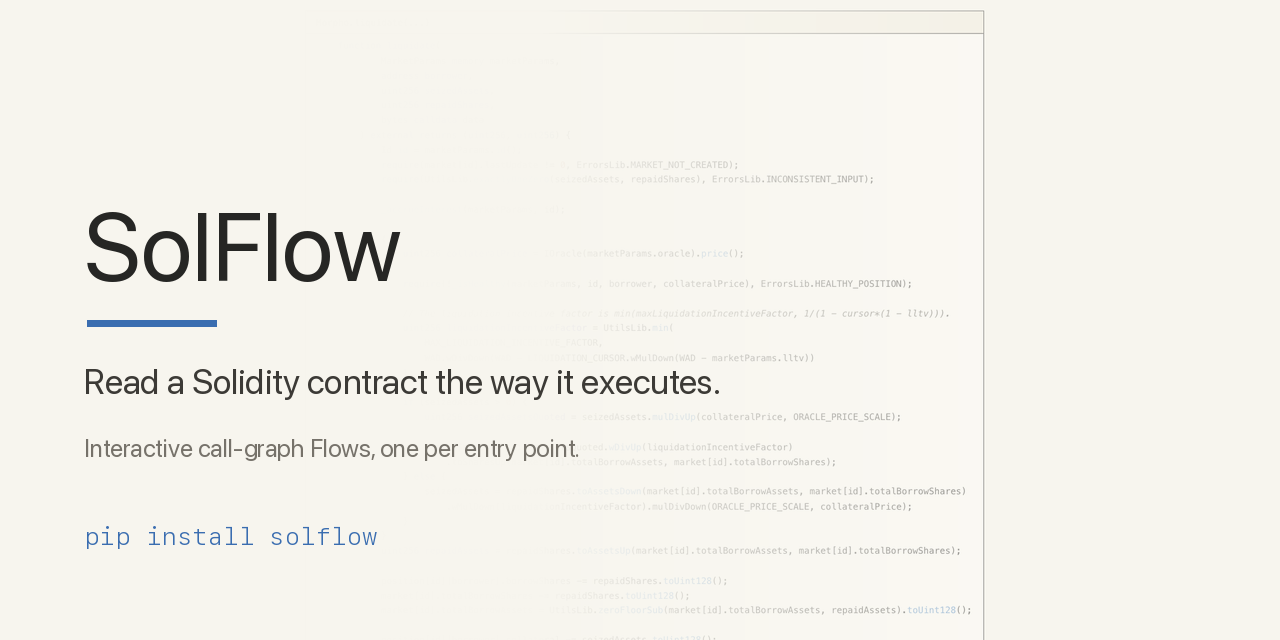
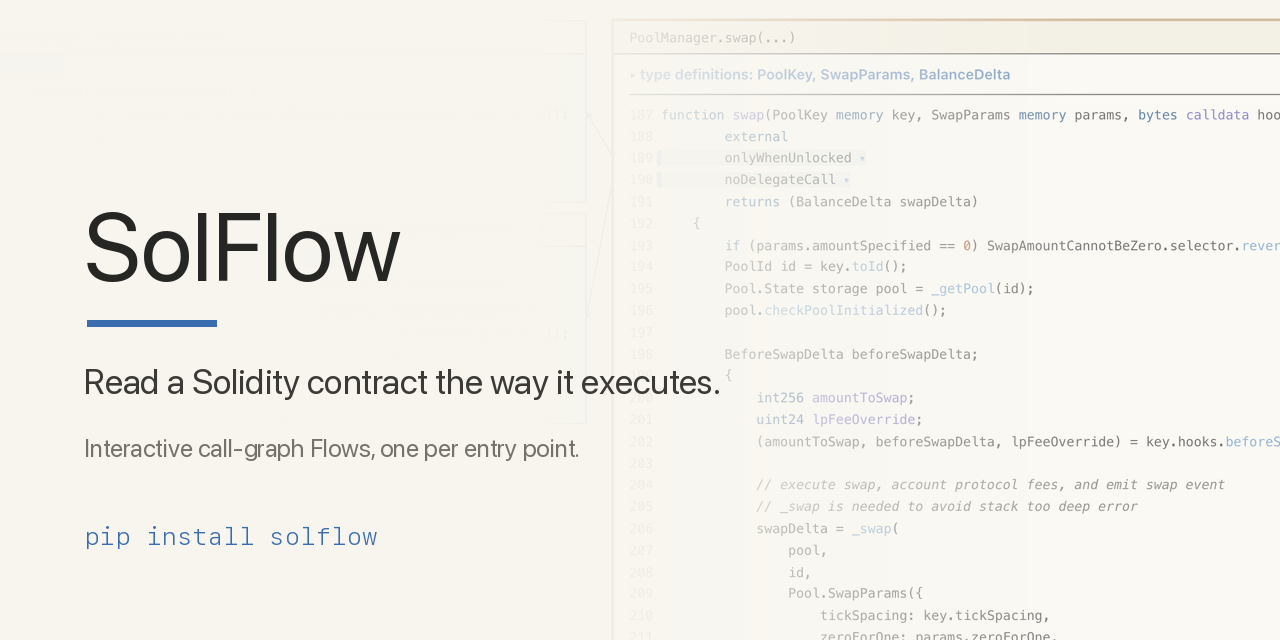
docs: refresh README demo on Uniswap V4 (PoolManager.swap)
Regenerate the README hero GIF, stills, and social card against
v4-core's PoolManager.swap at the v0.24 UI, replacing the stale
v0.11-era Morpho Blue (liquidate) imagery.

- demo.gif: light terminal -> entry-point index -> swap root ->
  expanded (beforeSwap hook + _swap -> Pool.swap) -> bird's-eye
  overview -> flip to dark mode. Same 14-beat structure and timing.
- stills renamed to match the subject: index-uniswap-v4.png,
  flow-swap-overview.png, flow-swap-detail.png (old Morpho/liquidate
  PNGs removed).
- social-preview.png regenerated over the swap source.
- docs/probes capture/stitch/terminal/social_preview updated for the
  new subject and a light terminal intro. The "overview" beat is a
  bounded ~32-node expansion: swap's full --expand-all tree is
  ~9645x133771 px and fits only as an unreadable sliver, so capture
  now needs just one server (8137).

Closes the long-standing stale-screenshots debt.

diff --git a/docs/probes/demo_gif_capture.py b/docs/probes/demo_gif_capture.py
@@ -4,9 +4,13 @@ Run with the ARCHIVE venv python (has Playwright + Chromium); writes PNGs to
 /tmp/solflow_gif/frames/ (scratch):
   .../solidity-flow-navigator-private-archive/.venv/bin/python docs/probes/demo_gif_capture.py
 
-Servers expected up beforehand (project venv):
+One server expected up beforehand (project venv):
   S1 = http://127.0.0.1:8137  (normal progressive)
-  S2 = http://127.0.0.1:8138  (--expand-all)
+
+The demo subject is Uniswap V4's PoolManager.swap. Its --expand-all tree is
+~9645x133771 px (see flow-progressive.js fit notes), which fits only as an
+unreadable sliver, so the "overview" beat shows a deep but bounded expansion
+(expand_swap_overview) instead of the whole tree.
 """
 
 from __future__ import annotations
@@ -19,54 +23,55 @@ OUT = pathlib.Path("/tmp/solflow_gif/frames")
 OUT.mkdir(parents=True, exist_ok=True)
 
 S1 = "http://127.0.0.1:8137"
-S2 = "http://127.0.0.1:8138"
-LIQ = "/flow/Morpho.liquidate(MarketParams,address,uint256,uint256,bytes)"
+SWAP = "/flow/PoolManager.swap(PoolKey,SwapParams,bytes)"
 
 VIEW = {"width": 1748, "height": 1116}
 DSF = 2
 
 
+PROMPT = (
+    '<span class="prompt">norah@mac</span> '
+    '<span class="path">~/work</span> <span class="sig">%</span>'
+)
+
+
 def terminal_html(command: str, *, cursor: bool, banner: bool) -> str:
-    """A polished macOS-style terminal window rendered for screenshotting."""
+    """A clean macOS-style terminal in the tool's LIGHT palette (cream surface,
+    dark ink, blue/green accents), so the intro flows seamlessly into the light
+    index and the loop-back from the dark finale reads as a clear restart.
+    Single source line + white-space:pre keeps the prompt on one line."""
     cur = '<span class="cur">&#9611;</span>' if cursor else ""
+    cmd_line = (
+        f'<div class="line">{PROMPT}<span class="cmd"> {command}</span>{cur}</div>'
+    )
     banner_html = ""
     if banner:
         banner_html = (
             '<div class="line out">Solidity Flow Navigator running at '
             '<span class="link">http://127.0.0.1:8137</span></div>'
-            '<div class="line"><span class="prompt">norah@mac</span>'
-            '<span class="path">~/work</span><span class="sig">%</span> '
-            '<span class="cur">&#9611;</span></div>'
+            f'<div class="line">{PROMPT} <span class="cur">&#9611;</span></div>'
         )
     return f"""<!doctype html><html><head><meta charset="utf-8"><style>
   html,body{{margin:0;height:100%;}}
-  body{{background:#14161b;display:flex;align-items:center;justify-content:center;
+  body{{background:#efeae0;display:flex;align-items:center;justify-content:center;
         font-family:ui-monospace,"SF Mono",Menlo,Consolas,monospace;}}
-  .win{{width:1180px;background:#1b1d23;border-radius:12px;overflow:hidden;
-        box-shadow:0 24px 80px rgba(0,0,0,.55);border:1px solid #2a2d36;}}
-  .bar{{height:44px;background:#23262e;display:flex;align-items:center;gap:9px;
-        padding:0 18px;}}
+  .win{{width:1180px;background:#fbfaf6;border-radius:12px;overflow:hidden;
+        box-shadow:0 18px 60px rgba(60,52,40,.18);border:1px solid #d8d4c8;}}
+  .bar{{height:44px;background:#efeadf;display:flex;align-items:center;gap:9px;
+        padding:0 18px;border-bottom:1px solid #e3ddcf;}}
   .dot{{width:13px;height:13px;border-radius:50%;}}
   .r{{background:#ff5f57;}} .y{{background:#febc2e;}} .g{{background:#28c840;}}
-  .title{{color:#8b8f9a;font-size:13px;margin-left:14px;}}
-  .body{{padding:26px 30px 34px;font-size:25px;line-height:1.7;color:#e6e8ee;}}
-  .line{{white-space:pre-wrap;word-break:break-all;}}
-  .prompt{{color:#7fd1b9;}} .path{{color:#7fb3eb;margin:0 .5ch;}}
-  .sig{{color:#8b8f9a;}}
-  .cmd{{color:#f2f4f8;}}
-  .out{{color:#9aa0ad;margin-top:6px;}}
-  .link{{color:#7fb3eb;text-decoration:underline;}}
-  .cur{{color:#e6e8ee;}}
+  .title{{color:#9a9486;font-size:13px;margin-left:14px;}}
+  .body{{padding:30px 30px 36px;font-size:25px;line-height:1.85;color:#2c2c2c;}}
+  .line{{white-space:pre;}}
+  .prompt{{color:#2f7d5b;}} .path{{color:#2f6db0;}} .sig{{color:#9a9486;}}
+  .cmd{{color:#1f1f1f;}} .out{{color:#6b6a64;}}
+  .link{{color:#2f6db0;text-decoration:underline;}} .cur{{color:#2c2c2c;}}
 </style></head><body>
   <div class="win">
     <div class="bar"><span class="dot r"></span><span class="dot y"></span>
       <span class="dot g"></span><span class="title">solflow &#8212; zsh</span></div>
-    <div class="body">
-      <div class="line"><span class="prompt">norah@mac</span>
-        <span class="path">~/work</span><span class="sig">%</span>
-        <span class="cmd"> {command}</span>{cur}</div>
-      {banner_html}
-    </div>
+    <div class="body">{cmd_line}{banner_html}</div>
   </div>
 </body></html>"""
 
@@ -84,22 +89,88 @@ def wait_ready(page) -> None:
     page.wait_for_timeout(700)
 
 
-def expand_liquidate(page) -> None:
-    """Click a few root call sites, then one level deeper in accrueInterest."""
-    for i in range(3):
-        try:
-            page.locator("#nodes .node").first.locator(".src-line--call").nth(i).click(
-                timeout=2500
-            )
-            page.wait_for_timeout(550)
-        except Exception as e:
-            print("  root click", i, "skip:", e)
+def expand_swap_overview(page) -> None:
+    """Build a bushy, readable bird's-eye of the swap flow, then fit. Collapses
+    to the root first (so the result is independent of any persisted state),
+    then drills: every root call site, _swap -> Pool.swap, Pool.swap's swap-step
+    math, and the beforeSwap hook subtree. The true --expand-all tree is far too
+    tall to read when fitted (~9645x133771 px), so this shows a rich slice (~30
+    nodes) that still fills the canvas legibly. Clicks are dispatched onto the
+    call-line spans (delegated handler), immune to pan/zoom and sidebar overlay."""
     try:
-        acc = page.locator('.node--function:has-text("accrueInterest")').first
-        acc.locator(".src-line--call").first.click(timeout=2500)
-        page.wait_for_timeout(550)
+        page.locator("#collapse-all-btn").click(timeout=2000)
+        page.wait_for_timeout(600)
     except Exception as e:
-        print("  accrueInterest deeper click skip:", e)
+        print("  collapse-all skip:", e)
+    drill = """(a) => {
+        const {marker, limit} = a;
+        const ns = [...document.querySelectorAll('#nodes .node')];
+        const node = marker === null
+            ? ns[0]
+            : ns.find(n => n !== ns[0] && (n.textContent || '').includes(marker));
+        if (!node) return -1;
+        let n = 0;
+        for (const l of node.querySelectorAll('.src-line--call')) {
+            if (l.classList.contains('src-line--expanded')) continue;
+            l.dispatchEvent(new MouseEvent('click', {bubbles: true}));
+            n++;
+            if (limit && n >= limit) break;
+        }
+        return n;
+    }"""
+    steps = [
+        ("root", {"marker": None, "limit": 0}),
+        ("_swap", {"marker": "pool.swap(", "limit": 0}),
+        ("Pool.swap", {"marker": "computeSwapStep", "limit": 6}),
+        ("beforeSwap", {"marker": "callHook(", "limit": 4}),
+    ]
+    for label, arg in steps:
+        print("  overview drill", label, "opened:", page.evaluate(drill, arg))
+        page.wait_for_timeout(700)
+    try:
+        page.locator("#reset-view").click(timeout=2500)
+        page.wait_for_timeout(1300)
+    except Exception as e:
+        print("  fit skip:", e)
+
+
+def expand_swap(page) -> None:
+    """Expand the interesting swap subtree, then fit. Clicks are dispatched
+    straight onto the call-line spans (the nodes-layer handler is delegated and
+    reads data-child-ids), so expansion is immune to pan/zoom hit-testing and
+    the call-tree sidebar overlay. Opens the library-mediated beforeSwap call
+    (which bottoms out in an unresolved low-level hook call) and the _swap
+    helper at the root, then one level deeper into pool.swap."""
+    opened = page.evaluate("""() => {
+            const root = document.querySelector('#nodes .node');
+            if (!root) return 0;
+            let n = 0;
+            for (const l of root.querySelectorAll('.src-line--call')) {
+                const t = l.textContent || '';
+                if (t.includes('beforeSwap(') || t.includes('_swap(')) {
+                    l.dispatchEvent(new MouseEvent('click', {bubbles: true}));
+                    n++;
+                }
+            }
+            return n;
+        }""")
+    print("  root call lines opened:", opened)
+    page.wait_for_timeout(700)
+    # one level deeper into Pool.swap. The _swap node is the one whose body
+    # calls pool.swap(); the call spans two source lines, so the clickable
+    # call site is its first .src-line--call (the assignment line), not the
+    # line literally reading "pool.swap(".
+    deeper = page.evaluate("""() => {
+            const nodes = [...document.querySelectorAll('#nodes .node')];
+            const swapNode = nodes.find(n => (n.textContent || '').includes('pool.swap('));
+            if (!swapNode) return false;
+            const line = swapNode.querySelector('.src-line--call');
+            if (!line) return false;
+            line.dispatchEvent(new MouseEvent('click', {bubbles: true}));
+            return true;
+        }""")
+    print("  pool.swap deeper opened:", deeper)
+    page.wait_for_timeout(700)
     try:
         page.locator("#reset-view").click(timeout=2000)
         page.wait_for_timeout(900)
@@ -115,19 +186,15 @@ def main() -> None:
         ctx = browser.new_context(viewport=VIEW, device_scale_factor=DSF)
         page = ctx.new_page()
         page.set_content(
-            terminal_html("solflow ../test-repos/mor", cursor=True, banner=False)
+            terminal_html("solflow ../test-repos/v4-", cursor=True, banner=False)
         )
         grab(page, "01_term_typing.png")
         page.set_content(
-            terminal_html(
-                "solflow ../test-repos/morpho-blue", cursor=True, banner=False
-            )
+            terminal_html("solflow ../test-repos/v4-core", cursor=True, banner=False)
         )
         grab(page, "02_term_full.png")
         page.set_content(
-            terminal_html(
-                "solflow ../test-repos/morpho-blue", cursor=False, banner=True
-            )
+            terminal_html("solflow ../test-repos/v4-core", cursor=False, banner=True)
         )
         grab(page, "03_term_run.png")
 
@@ -136,30 +203,40 @@ def main() -> None:
         page.wait_for_timeout(500)
         grab(page, "04_index_light.png")
 
-        page.goto(S1 + LIQ, wait_until="networkidle")
+        page.goto(S1 + SWAP, wait_until="networkidle")
         wait_ready(page)
-        grab(page, "05_liquidate_root_light.png")
+        grab(page, "05_swap_root_light.png")
 
-        # detail: tight element shot of the root node's source
+        # detail: the root node's source with breathing room around it (a clip
+        # padded beyond the node box, so it reads as zoomed-out, not cropped tight)
         try:
-            page.locator("#nodes .node").first.screenshot(
-                path=str(OUT / "06_liquidate_detail_light.png")
-            )
-            print("saved 06_liquidate_detail_light.png")
+            box = page.locator("#nodes .node").first.bounding_box()
+            pad_x, pad_y = 170, 120
+            cx = max(0, box["x"] - pad_x)
+            cy = max(0, box["y"] - pad_y)
+            clip = {
+                "x": cx,
+                "y": cy,
+                "width": min(VIEW["width"] - cx, box["width"] + 2 * pad_x),
+                "height": min(VIEW["height"] - cy, box["height"] + 2 * pad_y),
+            }
+            page.screenshot(path=str(OUT / "06_swap_detail_light.png"), clip=clip)
+            print("saved 06_swap_detail_light.png")
         except Exception as e:
-            print("  detail element shot skip:", e)
-            grab(page, "06_liquidate_detail_light.png")
+            print("  detail clip skip:", e)
+            grab(page, "06_swap_detail_light.png")
 
         # expanded (a few calls + one deeper), fit, full-viewport shot
-        page.goto(S1 + LIQ, wait_until="networkidle")
+        page.goto(S1 + SWAP, wait_until="networkidle")
         wait_ready(page)
-        expand_liquidate(page)
-        grab(page, "07_liquidate_expanded_light.png")
+        expand_swap(page)
+        grab(page, "07_swap_expanded_light.png")
 
-        # full tree zoomed out (S2 expand-all)
-        page.goto(S2 + LIQ, wait_until="networkidle")
+        # bird's-eye: a deep, bushy slice of the swap tree, fit to frame
+        page.goto(S1 + SWAP, wait_until="networkidle")
         wait_ready(page)
-        grab(page, "08_liquidate_full_light.png")
+        expand_swap_overview(page)
+        grab(page, "08_swap_full_light.png")
         ctx.close()
 
         # ---- dark frames (real solflow_theme=dark cookie) ----
@@ -167,7 +244,6 @@ def main() -> None:
         dctx.add_cookies(
             [
                 {"name": "solflow_theme", "value": "dark", "url": S1 + "/"},
-                {"name": "solflow_theme", "value": "dark", "url": S2 + "/"},
             ]
         )
         dp = dctx.new_page()
@@ -184,14 +260,15 @@ def main() -> None:
             print("  header shot skip:", e)
         grab(dp, "10_index_dark.png")
 
-        dp.goto(S1 + LIQ, wait_until="networkidle")
+        dp.goto(S1 + SWAP, wait_until="networkidle")
         wait_ready(dp)
-        expand_liquidate(dp)
-        grab(dp, "11_liquidate_expanded_dark.png")
+        expand_swap(dp)
+        grab(dp, "11_swap_expanded_dark.png")
 
-        dp.goto(S2 + LIQ, wait_until="networkidle")
+        dp.goto(S1 + SWAP, wait_until="networkidle")
         wait_ready(dp)
-        grab(dp, "12_liquidate_full_dark.png")
+        expand_swap_overview(dp)
+        grab(dp, "12_swap_full_dark.png")
         dctx.close()
 
         browser.close()

diff --git a/docs/probes/demo_gif_stitch.py b/docs/probes/demo_gif_stitch.py
@@ -31,9 +31,9 @@ SEQ = [
     ("03_term_run.png", 2600),
     # light walkthrough (kept)
     ("04_index_light.png", 2000),
-    ("05_liquidate_root_light.png", 1900),
-    ("07_liquidate_expanded_light.png", 2200),
-    ("08_liquidate_full_light.png", 2300),
+    ("05_swap_root_light.png", 1900),
+    ("07_swap_expanded_light.png", 2200),
+    ("08_swap_full_light.png", 2300),
     # "select dark mode" beat: full light index -> zoom toward toggle -> Dark
     ("04_index_light.png", 1400),
     (("ZOOM", "04_index_light.png", 0.5), 650),
@@ -41,8 +41,8 @@ SEQ = [
     (("ZOOM", "10_index_dark.png", 1.0), 1700),
     # dark trio (kept)
     ("10_index_dark.png", 1900),
-    ("11_liquidate_expanded_dark.png", 2200),
-    ("12_liquidate_full_dark.png", 5000),  # long final hold = clear ending
+    ("11_swap_expanded_dark.png", 2200),
+    ("12_swap_full_dark.png", 5000),  # long final hold = clear ending
 ]
 
 

diff --git a/docs/probes/social_preview.py b/docs/probes/social_preview.py
@@ -1,7 +1,7 @@
 """Build the 1280x640 GitHub social-preview card (docs/social-preview.png).
 
 Light + minimal: the SolFlow wordmark and tagline on clean cream, over a
-zoomed-in, faded crop of the syntax-highlighted Morpho.liquidate source.
+zoomed-in, faded crop of the syntax-highlighted PoolManager.swap source.
 Reproduces the committed docs/social-preview.png. The card is uploaded manually
 in the repo Settings -> Social preview; it is not referenced by the README.
 
@@ -46,7 +46,7 @@ def font(paths: list[str], size: int) -> ImageFont.FreeTypeFont:
 
 
 def main() -> None:
-    src = Image.open(FRAMES / "05_liquidate_root_light.png").convert("RGB")
+    src = Image.open(FRAMES / "05_swap_root_light.png").convert("RGB")
     crop = src.crop((620, 230, 2860, 1350)).resize((W, H), Image.LANCZOS)
     card = crop.convert("RGBA")
 

diff --git a/docs/probes/demo_gif_terminal.py b/docs/probes/demo_gif_terminal.py
@@ -65,9 +65,9 @@ def main() -> None:
         b = p.chromium.launch()
         page = b.new_context(viewport=VIEW, device_scale_factor=DSF).new_page()
         for name, cmd, cur, ban in [
-            ("01_term_typing.png", "solflow ../test-repos/mor", True, False),
-            ("02_term_full.png", "solflow ../test-repos/morpho-blue", True, False),
-            ("03_term_run.png", "solflow ../test-repos/morpho-blue", False, True),
+            ("01_term_typing.png", "solflow ../test-repos/v4-", True, False),
+            ("02_term_full.png", "solflow ../test-repos/v4-core", True, False),
+            ("03_term_run.png", "solflow ../test-repos/v4-core", False, True),
         ]:
             page.set_content(html(cmd, cursor=cur, banner=ban))
             page.screenshot(path=str(OUT / name))

diff --git a/README.md b/README.md
@@ -9,9 +9,9 @@
 
 SolFlow compiles a Solidity repository, extracts call-graph facts with [Slither](https://github.com/crytic/slither), and serves one interactive call-flow visualization (a **Flow**) per external entry point. Every node renders the target function's real source, syntax-highlighted and line-numbered. Analysis runs entirely on your machine. Built for Web3 security auditing.
 
-![SolFlow on Morpho Blue: launching solflow from the terminal, the entry-point index, expanding the liquidate flow into its full call tree, then switching to dark mode](https://raw.githubusercontent.com/norah1499/solidity-flow-navigator/main/docs/demo.gif)
+![SolFlow on Uniswap V4: launching solflow from the terminal, the entry-point index, expanding the swap flow into its call tree, then switching to dark mode](https://raw.githubusercontent.com/norah1499/solidity-flow-navigator/main/docs/demo.gif)
 
-*SolFlow on [Morpho Blue](https://github.com/morpho-org/morpho-blue): launch from the terminal, browse the entry-point index, expand the `liquidate` flow into its full call tree, then flip to dark mode. Pausable stills are under [Screenshots](#screenshots).*
+*SolFlow on [Uniswap V4](https://github.com/Uniswap/v4-core): launch from the terminal, browse the entry-point index, expand the `swap` flow into its call tree, then flip to dark mode. Pausable stills are under [Screenshots](#screenshots).*
 
 > [!NOTE]
 > SolFlow is **not a vulnerability scanner**. It emits no findings and makes no security claims. It shows you the code's shape so you can find the problems faster.
@@ -126,17 +126,17 @@ If the project builds cleanly and Slither itself still fails on it (this happens
 ## Screenshots
 
 <details>
-<summary>Stills from the demo above (Morpho Blue)</summary>
+<summary>Stills from the demo above (Uniswap V4)</summary>
 
 The index lists every external entry point of the analyzed repository:
 
-![Index view listing the entry points of Morpho Blue](https://raw.githubusercontent.com/norah1499/solidity-flow-navigator/main/docs/index-morpho.png)
+![Index view listing the entry points of Uniswap V4](https://raw.githubusercontent.com/norah1499/solidity-flow-navigator/main/docs/index-uniswap-v4.png)
 
-Opening an entry point renders its full call flow; every callee panel shows the real source:
+Opening an entry point renders its call flow; every callee panel shows the real source:
 
-![Expanded call-flow graph of Morpho.liquidate](https://raw.githubusercontent.com/norah1499/solidity-flow-navigator/main/docs/flow-liquidate-overview.png)
+![Expanded call-flow graph of PoolManager.swap](https://raw.githubusercontent.com/norah1499/solidity-flow-navigator/main/docs/flow-swap-overview.png)
 
-![Zoomed view of the liquidate flow with library functions](https://raw.githubusercontent.com/norah1499/solidity-flow-navigator/main/docs/flow-liquidate-detail.png)
+![Zoomed into the swap root node: real, syntax-highlighted source with inline type definitions](https://raw.githubusercontent.com/norah1499/solidity-flow-navigator/main/docs/flow-swap-detail.png)
 
 </details>
 
